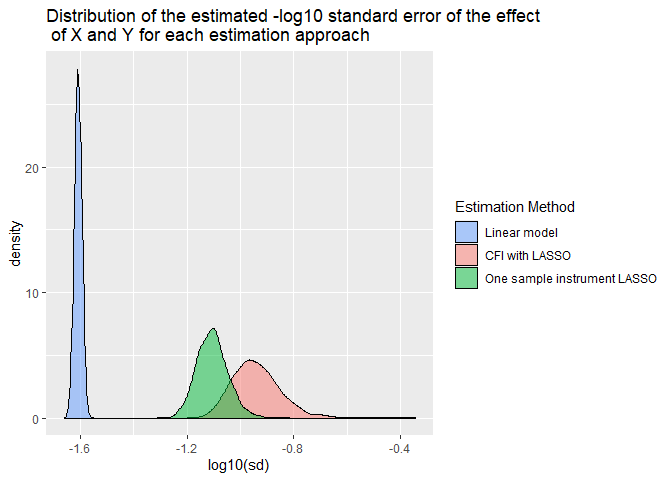
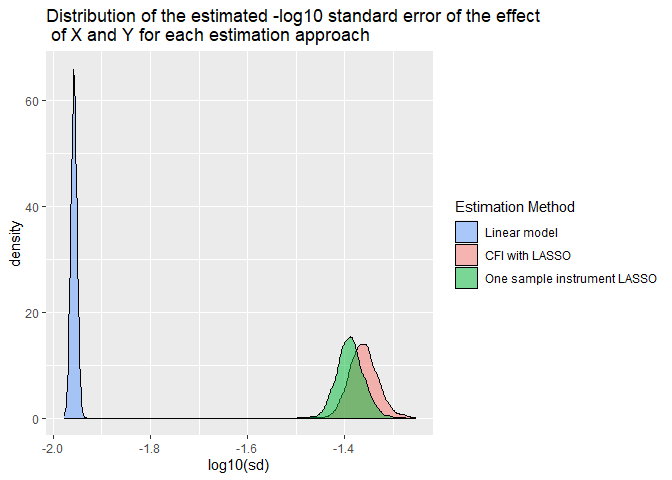
preview readme

diff --git a/README.md b/README.md
@@ -3,37 +3,47 @@ Cross-fitted instrument
 William R.P. Denault
 26/02/2021
 
+A complete CFMR pipeline with random splits is provided in the folder
+CFMR\_pipeline\_code.
+
 ## Cross-fitted instrument and Cross-fitting for Mendelian Randomization
 
 Here we present basic scripts to obtain a cross-fitted instrument. For
-the sake of simplicity, we don’t partition the data at random. A
-complete CFMR pipeline with random splits is provided in the folder
-CFMR\_pipeline\_code.
+the sake of simplicity, we don’t partition the data at random.
 
 ### A basic example
 
 Here we define the parameters of our analysis
 
 ``` r
-#number of individuals
+# n number of individuals
 n <- 5000
-#Number of selected SNPs
-p <- 100
-#Number of SNPs affecting the exposure among the p selected
+# p  Number of selected SNPs
+p <- 100 
+# np_act Number of SNPs affecting the exposure among the p selected SNPs
 np_act <-5
-sub_split <- 5#10 #number of split
+# sub_split Number of splits
+sub_split <- 5 
 ```
 
-Below we simulate the data, where G contains the selected SNPs (p) and
-the (np\_act) first columns contain the actual causal SNPs. X and Y are
+Below we simulate the data. G contains the selected SNPs (p) and the
+(np\_act) first columns of G contain the actual causal SNPs. X and Y are
 sampled with correlated noise (0.7) and H is the hidden confounded
 
 ``` r
 set.seed(3)
 #Y and X are sample with some correlated noise
-noise <-rmvnorm(n, mean = rep(0, 2), sigma = matrix(nrow = 2, byrow = TRUE, c(1,0.7,0.7,1) ) )                    
+noise <-rmvnorm(n, mean = rep(0, 2), sigma = matrix(nrow = 2,
+                                                    byrow = TRUE,
+                                                    c(1,0.7,0.7,1) 
+                                                    ) 
+                )                    
 #Genotype data, each of the SNP are sample at Hardy-Weinberg equilibrium for a MAF of 30%
-  G <- matrix(sample(c(0,1,2), size= (n*p), prob = c(0.7^2, 2*0.7*0.3, 0.3^2), replace = TRUE),nrow= n)          
+  G <- matrix(sample(c(0,1,2),
+                     size= (n*p),
+                     prob = c(0.7^2, 2*0.7*0.3, 0.3^2),
+                     replace = TRUE),
+              nrow= n)          
 #Hidden confounding, increase sd to increase confounding
 H <- rnorm(n, sd=1)
  
@@ -107,41 +117,27 @@ summary(res2)$coef[2,] #CFI-LASSO, at worse bias toward the null
     ##     Estimate   Std. Error      t value     Pr(>|t|) 
     ## 1.165090e+00 1.058469e-01 1.100731e+01 7.345632e-28
 
-### Some larger simulation
+### Some larger simulations
 
 Here we perform 2000 estimations of the effect of X on Y (parameter
-n=1000, p=100, np\_act=5,beta=0.08,h2=0.1) using CFI, One sample
-instrument LASSO estimate on, and a standard linear model. The function
-used for the simulations can be found at the end.
-
-``` r
-res <- list( )
-for ( i in 1:2000)
-{
-  res[[i]]  <- simu_cross_fit_IV_est (n=1000, p=100, np_act=5,beta=0.08,h2=0.1)
-}
-
-df0 <- data.frame(do.call( rbind, res))
-
-colnames(df0)[2] <- "sd"
-colnames(df0)[4] <- "p"
-colnames(df0)[5] <- "Est_type"
-df0$Est_type <- as.factor(df0$Est_type)
-df0$Estimate <- as.numeric(as.character(df0$Estimate))
-df0$sd       <- as.numeric(as.character(df0$sd))
-df0$t.value  <- as.numeric(as.character(df0$t.value))
-df0$p        <- as.numeric(as.character(df0$p))
-```
+n=5000, p=100, np\_act=5,beta=0.08,h2=0.1) using CFI, one sample
+instrument LASSO estimate, and a standard linear model. The function
+used for the simulations can be found at the end of this document or in
+the folder CFMR\_simulation\_code.
 
 ![](README_files/figure-gfm/unnamed-chunk-3-1.png)<!-- -->
 
-Clearly, LM and IV\_Lasso are overconfident. In the plot below, we see
-that the linear model and On sample instrument LASSO have smaller
-standard errors than CFI with LASSO, which implies overconfidence in the
-significance of the estimated
-effect.
+Clearly, LM and one sample IV Lasso are overconfident and biased. In the
+plot below, we see that the linear model and On sample instrument LASSO
+have smaller standard errors than CFI with LASSO, which implies
+overconfidence in the significance of the estimated
+    effect.
 
-![](README_files/figure-gfm/unnamed-chunk-4-1.png)<!-- -->![](README_files/figure-gfm/unnamed-chunk-4-2.png)<!-- -->
+![](README_files/figure-gfm/unnamed-chunk-4-1.png)<!-- -->
+
+    ## Warning: Removed 2000 rows containing non-finite values (stat_density).
+
+![](README_files/figure-gfm/unnamed-chunk-4-2.png)<!-- -->
 
 ## Simulation function
 
